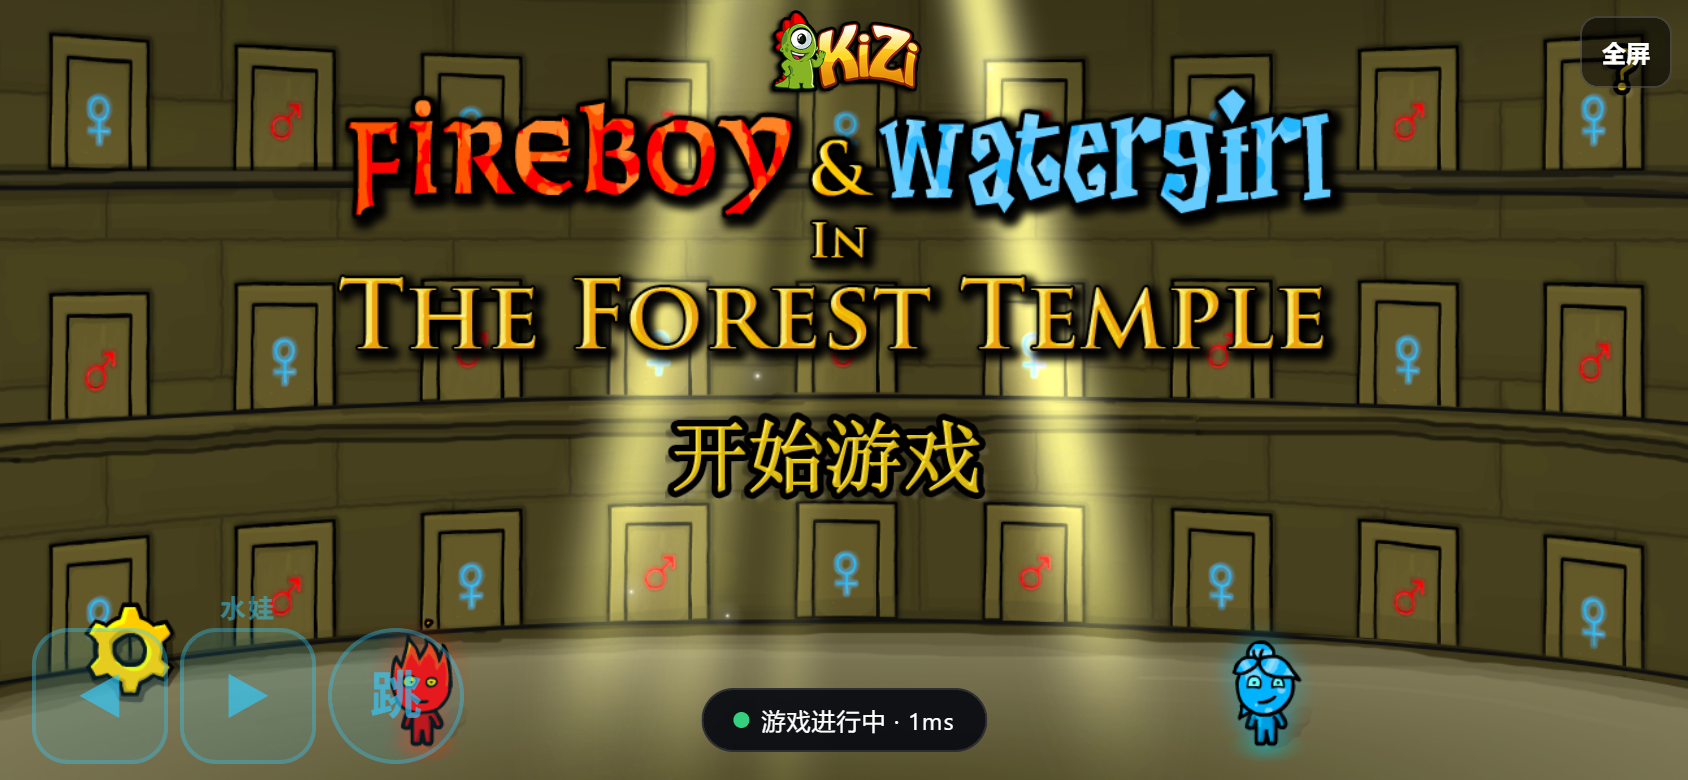
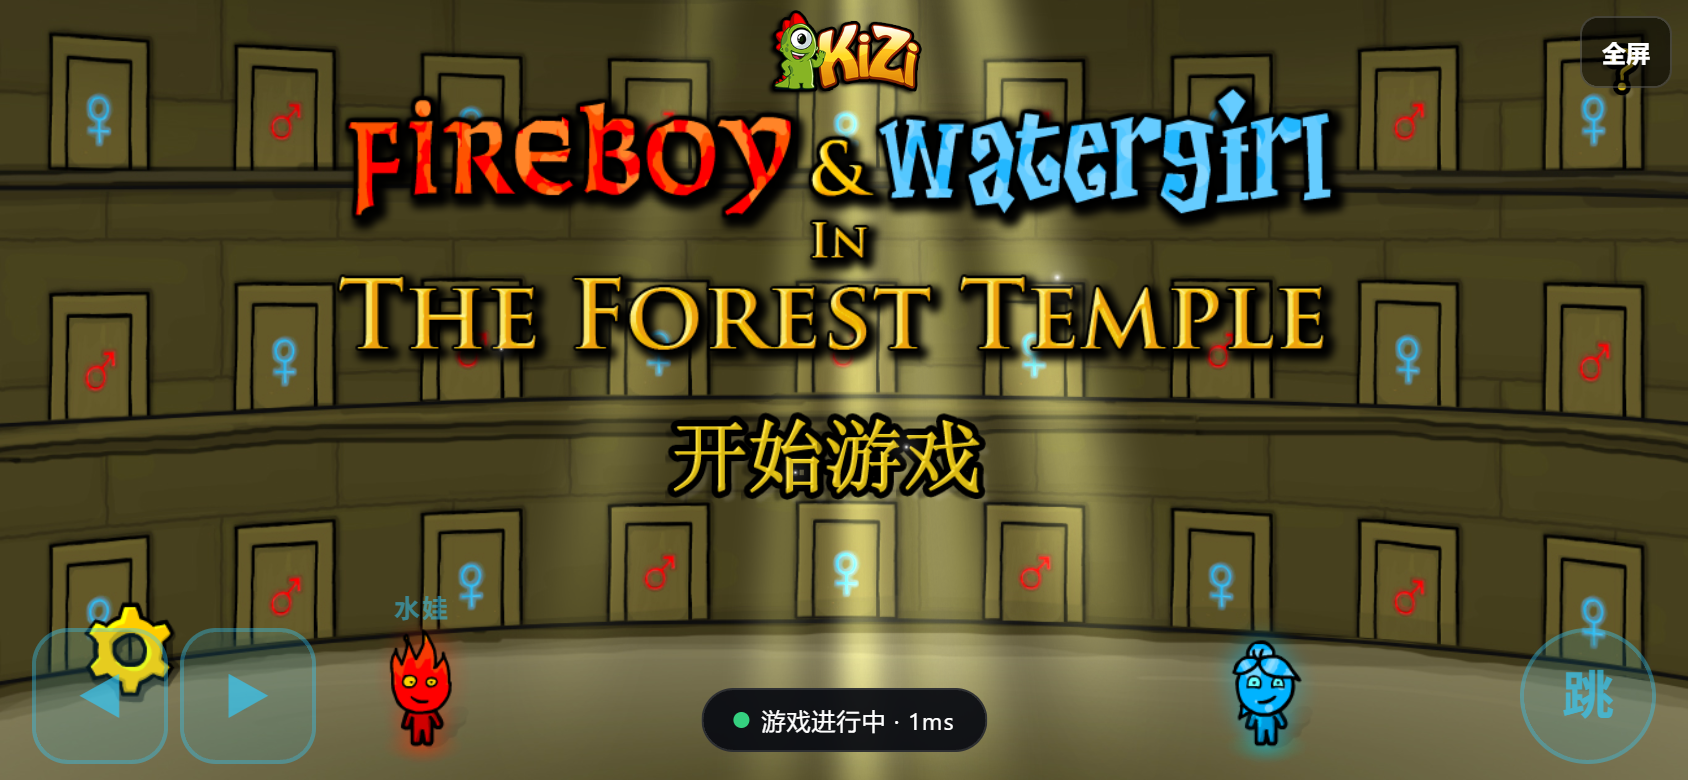
fix: split mobile controls and refresh iPhone docs

diff --git a/games/lib/input/touch-pads.js b/games/lib/input/touch-pads.js
@@ -131,22 +131,24 @@
         '  position: fixed;',
         '  bottom: calc(10px + env(safe-area-inset-bottom, 0px));',
         '  z-index: 2147480002;',                   /* above the guest video layer */
-        '  display: flex; flex-direction: row; align-items: flex-end; gap: var(--fb-pad-gap);',
-        '  position: fixed;',
-        '  pointer-events: auto;',                  /* dead zone swallows stray thumbs */
+        '  left: 0; right: 0; width: 100vw; height: var(--fb-pad-size);',
+        '  pointer-events: none;',                  /* only the button rows accept touches */
         '  touch-action: none;',
         '  user-select: none; -webkit-user-select: none;',
         '}',
-        '.tc-pad-left  { left:  calc(10px + env(safe-area-inset-left, 0px)); }',
-        '.tc-pad-right { right: calc(10px + env(safe-area-inset-right, 0px)); }',
+        '.tc-pad-left, .tc-pad-right { left: 0; right: 0; }',
         '.tc-label {',
-        '  position: absolute; left: 0; right: 0; bottom: calc(100% + 3px);',
+        '  position: absolute; bottom: calc(100% + 3px);',
         '  pointer-events: none; text-align: center; width: 100%;',
         '  font: bold 10px/1 sans-serif; letter-spacing: 1px;',
         '}',
+        '.tc-pad-left .tc-label { left: 0; width: 50%; }',
+        '.tc-pad-right .tc-label { right: 0; width: 50%; }',
         '.tc-label-water { color: rgba(51,204,255,0.5); }',
         '.tc-label-fire  { color: rgba(255,77,77,0.5); }',
-        '.tc-row { display: flex; gap: 8px; justify-content: center; }',
+        '.tc-row { position: absolute; bottom: 0; display: flex; gap: 8px; justify-content: center; pointer-events: auto; }',
+        '.tc-dir-row { left: calc(10px + env(safe-area-inset-left, 0px)); }',
+        '.tc-jump-row { right: calc(10px + env(safe-area-inset-right, 0px)); }',
         '.tc-btn {',
         '  width: var(--fb-pad-size); height: var(--fb-pad-size); border-radius: 18px;',
         '  border: 2px solid; box-sizing: border-box;',
@@ -169,9 +171,9 @@
         '',
         '/* tablets / large screens: roomier pads */',
         '@media (min-width: 768px) {',
-        '  .tc-pad { bottom: calc(16px + env(safe-area-inset-bottom, 0px)); gap: 12px; }',
-        '  .tc-pad-left  { left:  calc(16px + env(safe-area-inset-left, 0px)); }',
-        '  .tc-pad-right { right: calc(16px + env(safe-area-inset-right, 0px)); }',
+        '  .tc-pad { bottom: calc(16px + env(safe-area-inset-bottom, 0px)); }',
+        '  .tc-dir-row { left: calc(16px + env(safe-area-inset-left, 0px)); }',
+        '  .tc-jump-row { right: calc(16px + env(safe-area-inset-right, 0px)); }',
         '  .tc-row { gap: 12px; }',
         '  .tc-label { font-size: 13px; }',
         '  :root { --fb-pad-size: 120px; --fb-pad-gap: 12px; }',
@@ -180,7 +182,7 @@
         '   phone that matches both (e.g. 844x390 iPhone landscape) gets the',
         '   compact size, not the tablet size. */',
         '@media (max-height: 480px) {',
-        '  .tc-pad { bottom: calc(8px + env(safe-area-inset-bottom, 0px)); gap: 6px; }',
+        '  .tc-pad { bottom: calc(8px + env(safe-area-inset-bottom, 0px)); }',
         '  .tc-row { gap: 6px; }',
         '  :root { --fb-pad-size: 68px; --fb-pad-gap: 6px; }',
         '}',
@@ -409,11 +411,11 @@
         // Keep horizontal movement together on the left and jump on the right
         // so two thumbs can operate independently on the same baseline.
         var jumpRow = document.createElement('div');
-        jumpRow.className = 'tc-row';
+        jumpRow.className = 'tc-row tc-jump-row';
         jumpRow.appendChild(makeButton(role, 'up', '跳'));
 
         var dirRow = document.createElement('div');
-        dirRow.className = 'tc-row';
+        dirRow.className = 'tc-row tc-dir-row';
         dirRow.appendChild(makeButton(role, 'left', '◀'));
         dirRow.appendChild(makeButton(role, 'right', '▶'));
         pad.appendChild(dirRow);

diff --git a/server/src/app.js b/server/src/app.js
@@ -70,7 +70,10 @@ export function createApp() {
       "base-uri 'self'",
       "object-src 'none'",
       "frame-ancestors 'self'",
-      "script-src 'self' 'unsafe-inline' blob:",
+      // The bundled legacy Phaser/Box2D runtimes compile small shader and
+      // compatibility functions dynamically; unsafe-eval is required for
+      // those game assets to boot, while the rest of the policy stays scoped.
+      "script-src 'self' 'unsafe-inline' 'unsafe-eval' blob:",
       "style-src 'self' 'unsafe-inline'",
       "img-src 'self' data: blob:",
       "font-src 'self' data:",

diff --git a/README.md b/README.md
@@ -6,8 +6,6 @@
 
 手机端建议横屏使用。左右移动按钮位于左侧，跳跃按钮位于右侧，支持多指同时操作。
 
-![手机端联机游戏实测](docs/mobile-gameplay.jpg)
-
 完整联机流程截图：
 
 | 房主创建房间 | 第二台设备加入 |
@@ -103,7 +101,7 @@ common/protocol/           # 浏览器和服务端共用协议
 server/                    # Express 静态服务、房间状态机和 Socket.IO
 tests/                     # 移动端浏览器 E2E 测试
 deploy/                    # Nginx 配置示例
-docs/mobile-gameplay.jpg   # 手机端实测截图
+docs/multiplayer-mobile-*.png # iPhone 尺寸联机流程截图
 ```
 
 ## 版权与使用提醒
